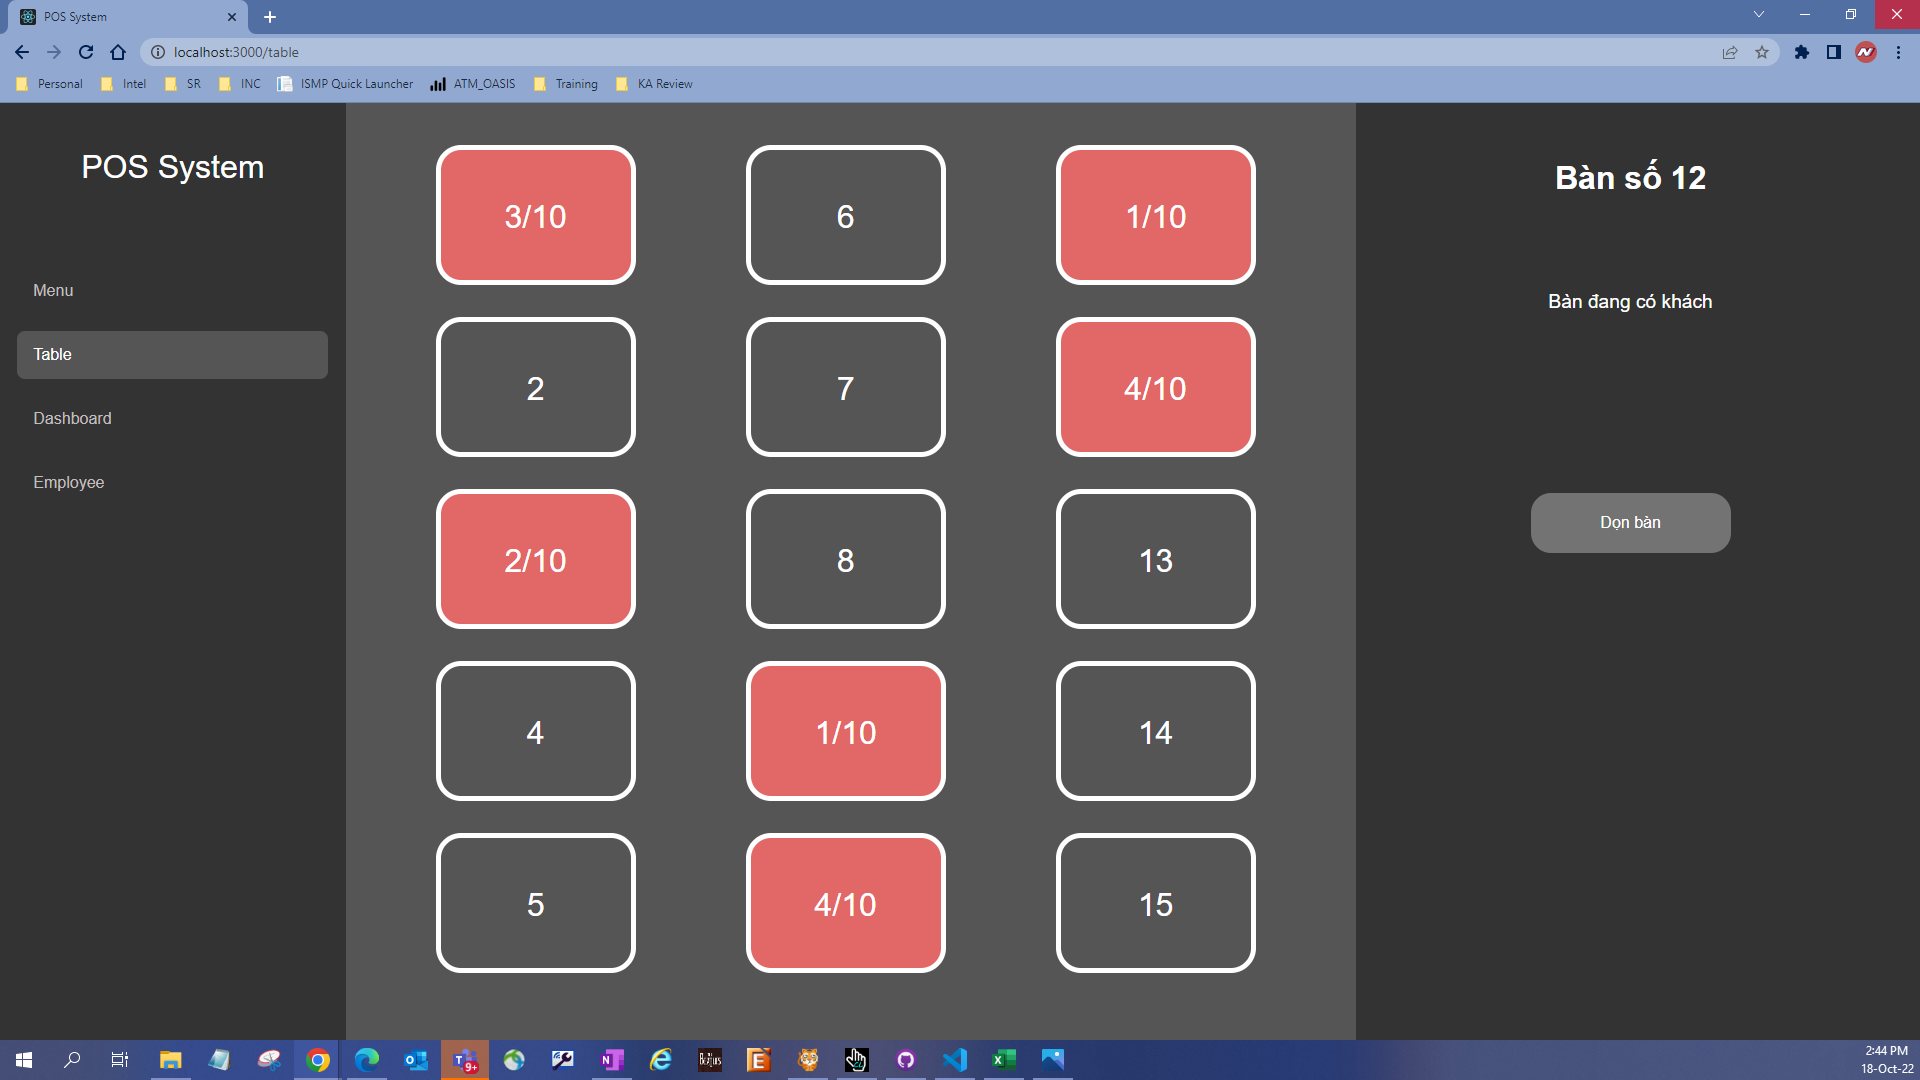
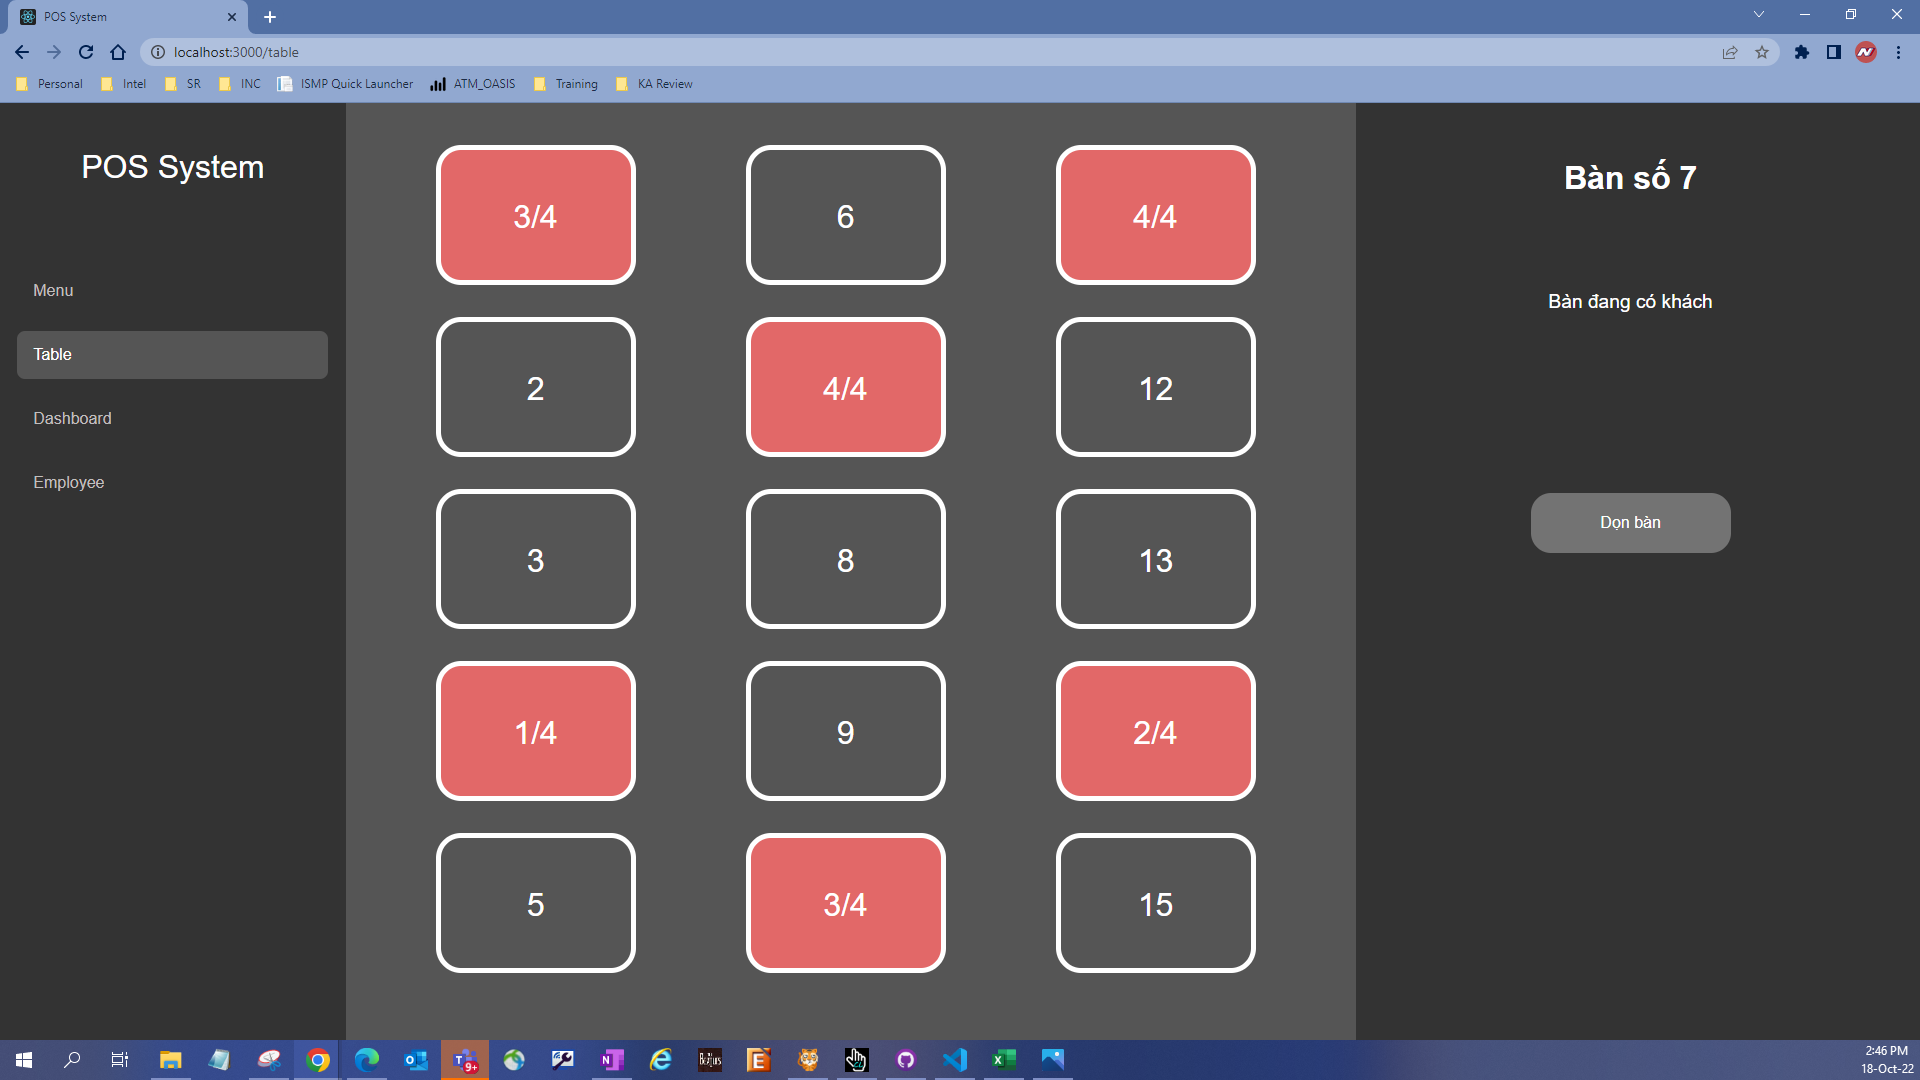
Update screenshot

diff --git a/src/pages/Table/Table.jsx b/src/pages/Table/Table.jsx
@@ -93,7 +93,7 @@ const usetable = () => {
     element.setAttribute("data-state", "1"); 
     document.querySelector('[data-no = "' + tablenum + '"]').style.background = '#E26868'; 
 
-    document.querySelector('[data-no = "' + tablenum + '"]').innerHTML = currentcus + "/10";
+    document.querySelector('[data-no = "' + tablenum + '"]').innerHTML = currentcus + "/4";
 }
 
 const cleartable = () => {
